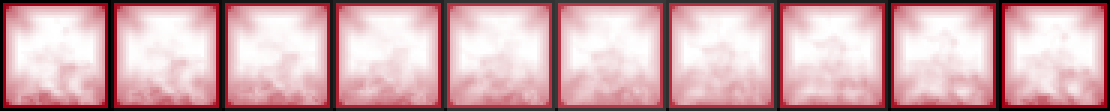
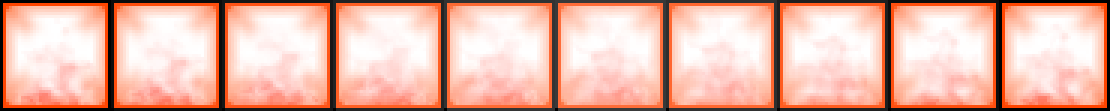
feat(forge): ô đồ cường hoá kiểu kính trong + lửa ánh kim + đốm lửa bay lên
Owner 2026-10-25 (two reference shots + 'ở giữa là hình trong veo giống kính, bên trong và xung quanh có ánh kim rực cháy, các hạt màu và hạt sáng di chuyển giống đóm lửa bay từ dưới lên trên'):

diff --git a/src/ui/forge-item-assets-runtime.js b/src/ui/forge-item-assets-runtime.js
@@ -16,9 +16,11 @@ function hvForgeCost(id, value) {
   return `<span class="forge-cost"><img class="forge-material-art" src="${hvForgeMaterial(id)}" alt="${label}">${value}</span>`;
 }
 
-function hvForgeItemVisual(item, className = 'forge-item-art') {
+function hvForgeItemVisual(item, className = 'forge-item-art', tier = '') {
   const alt = typeof itemName === 'function' ? itemName(item) : 'Trang bị';
-  return `<img class="${className}" src="${hvForgeAsset(item)}" alt="${esc(alt)}" loading="lazy">`;
+  const glow = tier || (typeof enhGlowTier === 'function' ? enhGlowTier(item && item.lvl) : '');
+  const cls = 'hv-item-slot' + (glow ? ' hv-glow-' + glow : '');
+  return `<span class="${cls}"${glow ? ` data-glow="${glow}"` : ''}><img class="${className}" src="${hvForgeAsset(item)}" alt="${esc(alt)}" loading="lazy"></span>`;
 }
 
 function hvForgeReveal(item, kind = 'craft') {
@@ -53,6 +55,137 @@ chooseDualForge = function chooseDualForgeWithReveal(index, commandId, pendingId
 // 17-20 yellow) onto our +0..+15 ceiling: +9..+11 tím, +12..+13 vàng kim, +14..+15 đỏ rực.
 function enhGlowTier(lvl){ const n=Number(lvl)||0; return n>=14?'red':n>=12?'gold':n>=9?'purple':''; }
 
+// Owner 2026-10-25: enhanced item cells - clear glass in the middle, a metallic tier-coloured fire burning inside and
+// around the rim, coloured motes and bright embers rising like sparks. One shared rAF for every glowing cell on screen.
+const HV_ENH_FX = (() => {
+  const PAL = {
+    purple: { rim: [178, 96, 255], hot: [246, 214, 255], mote: [205, 140, 255], rate: 46 },
+    gold:   { rim: [255, 196, 40], hot: [255, 248, 196], mote: [255, 224, 110], rate: 56 },
+    red:    { rim: [255, 84, 22],  hot: [255, 222, 120], mote: [255, 146, 52],  rate: 72 },
+  };
+  const PAD_X = 16, PAD_TOP = 22, PAD_BOTTOM = 12;
+  const cells = new Set();
+  let raf = 0, last = 0;
+  const rgba = (c, a) => `rgba(${c[0]},${c[1]},${c[2]},${a})`;
+
+  function attach(root) {
+    if (!root) return;
+    if (typeof matchMedia === 'function' && matchMedia('(prefers-reduced-motion: reduce)').matches) return;
+    root.querySelectorAll('.hv-item-slot[data-glow]').forEach(el => {
+      if (el.__hvFx) return;
+      const tier = el.dataset.glow;
+      if (!PAL[tier]) return;
+      const c = document.createElement('canvas');
+      c.className = 'hv-fx';
+      el.appendChild(c);
+      el.__hvFx = { c, tier, parts: [], acc: 0, seed: Math.random() * 1000 };
+      cells.add(el);
+    });
+    if (cells.size && !raf) { last = 0; raf = requestAnimationFrame(loop); }
+  }
+
+  function loop(ts) {
+    raf = 0;
+    const dt = last ? Math.min(0.05, (ts - last) / 1000) : 0.016;
+    last = ts;
+    const vh = innerHeight;
+    for (const el of cells) {
+      if (!el.isConnected) { cells.delete(el); continue; }
+      const r = el.getBoundingClientRect();
+      if (r.bottom < -40 || r.top > vh + 40) continue;        // off screen: keep state, skip drawing
+      draw(el, ts / 1000, dt);
+    }
+    if (cells.size) raf = requestAnimationFrame(loop);
+  }
+
+  function draw(el, t, dt) {
+    const fx = el.__hvFx, pal = PAL[fx.tier];
+    const w = el.offsetWidth, h = el.offsetHeight;
+    const W = w + PAD_X * 2, H = h + PAD_TOP + PAD_BOTTOM;
+    // (not the campaign scene's exact dpr line: a build step anchors on that text being unique)
+    const dpr = Math.min(2, (window.devicePixelRatio) || 1);
+    const c = fx.c;
+    if (c.width !== Math.round(W * dpr) || c.height !== Math.round(H * dpr)) {
+      c.width = Math.round(W * dpr); c.height = Math.round(H * dpr);
+      c.style.width = W + 'px'; c.style.height = H + 'px';
+    }
+    const g = c.getContext('2d');
+    g.setTransform(dpr, 0, 0, dpr, 0, 0);
+    g.clearRect(0, 0, W, H);
+    g.globalCompositeOperation = 'lighter';
+    const x0 = PAD_X, y0 = PAD_TOP, x1 = PAD_X + w, y1 = PAD_TOP + h;
+
+    // 1) metallic fire burning along the INSIDE of the rim: flickering soft bands on all four edges,
+    //    stronger along the bottom where the flames start.
+    const flick = s => 0.55 + 0.45 * Math.sin(t * 7.3 + s) * Math.sin(t * 3.1 + s * 1.7);
+    const edge = (gx0, gy0, gx1, gy1, a) => {
+      const gr = g.createLinearGradient(gx0, gy0, gx1, gy1);
+      gr.addColorStop(0, rgba(pal.hot, a));
+      gr.addColorStop(0.35, rgba(pal.rim, a * 0.7));
+      gr.addColorStop(1, rgba(pal.rim, 0));
+      return gr;
+    };
+    const band = Math.max(8, w * 0.2);
+    g.fillStyle = edge(0, y1, 0, y1 - band * 1.5, 0.55 * flick(fx.seed)); g.fillRect(x0, y1 - band * 1.5, w, band * 1.5);
+    g.fillStyle = edge(x0, 0, x0 + band, 0, 0.32 * flick(fx.seed + 2)); g.fillRect(x0, y0, band, h);
+    g.fillStyle = edge(x1, 0, x1 - band, 0, 0.32 * flick(fx.seed + 4)); g.fillRect(x1 - band, y0, band, h);
+    g.fillStyle = edge(0, y0, 0, y0 + band, 0.22 * flick(fx.seed + 6)); g.fillRect(x0, y0, w, band);
+
+    // 2) flame tongues licking up from the bottom rim (outside + inside)
+    const tongues = 5;
+    for (let i = 0; i < tongues; i++) {
+      const fxp = x0 + (i + 0.5) * (w / tongues) + Math.sin(t * 2.3 + i * 1.9 + fx.seed) * 3;
+      const fh = h * (0.22 + 0.16 * (0.5 + 0.5 * Math.sin(t * 5.1 + i * 2.7 + fx.seed)));
+      const rg = g.createRadialGradient(fxp, y1, 0, fxp, y1, fh);
+      rg.addColorStop(0, rgba(pal.hot, 0.55));
+      rg.addColorStop(0.4, rgba(pal.rim, 0.32));
+      rg.addColorStop(1, rgba(pal.rim, 0));
+      g.fillStyle = rg;
+      g.beginPath(); g.ellipse(fxp, y1, w / tongues * 0.75, fh, 0, Math.PI, 0); g.fill();
+    }
+
+    // 3) shimmering metallic rim line
+    g.lineWidth = 1.5;
+    g.strokeStyle = rgba(pal.hot, 0.35 + 0.3 * flick(fx.seed + 9));
+    g.strokeRect(x0 + 1, y0 + 1, w - 2, h - 2);
+
+    // 4) particles: coloured motes + bright embers, born near the bottom / rim, drifting up and swaying
+    fx.acc += pal.rate * dt;
+    while (fx.acc >= 1) {
+      fx.acc -= 1;
+      const ember = Math.random() < 0.38;
+      const side = Math.random();
+      const px = side < 0.7 ? x0 + Math.random() * w : (side < 0.85 ? x0 + Math.random() * 6 : x1 - Math.random() * 6);
+      const py = side < 0.7 ? y1 - Math.random() * h * 0.35 : y0 + h * (0.3 + Math.random() * 0.7);
+      fx.parts.push({ x: px, y: py, vx: (Math.random() - 0.5) * 8, vy: -(18 + Math.random() * 30) * (ember ? 1.35 : 1),
+        life: 0, max: 0.9 + Math.random() * 0.9, r: ember ? 0.9 + Math.random() * 1.1 : 1.4 + Math.random() * 1.8, ember, ph: Math.random() * 6 });
+    }
+    const keep = [];
+    for (const q of fx.parts) {
+      q.life += dt;
+      if (q.life >= q.max) continue;
+      q.x += (q.vx + Math.sin(t * 4 + q.ph) * 6) * dt;
+      q.y += q.vy * dt;
+      if (q.y < 0) continue;
+      const k = q.life / q.max, a = (k < 0.15 ? k / 0.15 : 1 - (k - 0.15) / 0.85) * (q.ember ? 1 : 0.75);
+      const col = q.ember ? pal.hot : pal.mote;
+      const rad = q.r * (q.ember ? 3.2 : 2.6);
+      const rg = g.createRadialGradient(q.x, q.y, 0, q.x, q.y, rad);
+      rg.addColorStop(0, rgba(col, a));
+      rg.addColorStop(0.45, rgba(q.ember ? pal.mote : pal.rim, a * 0.55));
+      rg.addColorStop(1, rgba(pal.rim, 0));
+      g.fillStyle = rg;
+      g.beginPath(); g.arc(q.x, q.y, rad, 0, Math.PI * 2); g.fill();
+      keep.push(q);
+    }
+    fx.parts = keep.length > 120 ? keep.slice(-120) : keep;
+    g.globalCompositeOperation = 'source-over';
+  }
+
+  return { attach };
+})();
+window.HV_ENH_FX = HV_ENH_FX;
+
 const hvEnhanceItemWithReveal = enhanceItem;
 enhanceItem = function enhanceItemWithReveal(uid, commandId) {
   const ok = hvEnhanceItemWithReveal(uid, commandId);
@@ -66,10 +199,11 @@ function renderForge(){ const b=document.getElementById('forgeBody');
   const reveal=ST.forgeRevealItem; const revealBar=reveal?`<div class="econ-panel full forge-item-reveal" data-forge-reveal="${reveal.uid}">${hvForgeItemVisual(reveal,'forge-reveal-art')}<div class="forge-reveal-copy"><strong>Đã ghi sổ sau khi lưu</strong><h3>${itemName(reveal)} <small>· ${reveal.rar.toUpperCase()}</small></h3><p>${DATA.items.slotName[reveal.slot]} · ${itemStat(reveal)} ${DATA.items.statName[reveal.slot]} · ${FORGE_MOLDS[reveal.mold]?.name||'Khuôn đã chọn'}</p></div><button class="btn ghost sm forge-reveal-dismiss" id="forgeRevealDismiss">Tiếp tục</button></div>`:'';
   const pending=econ().forgePending; const pendingBar=pending?`<div class="econ-panel full forge-pending"><h3>🔥 Song Rèn · chọn 1, bỏ 1</h3><div class="econ-muted">Hai phôi đã tiêu thụ nguyên liệu. Chọn món phù hợp build; lựa chọn còn lại bị tôi hỏng.</div><div class="forge-candidates">${pending.candidates.map((it,i)=>`<button class="btn forge-candidate dualpick" data-i="${i}" data-forge-item="${it.slot}-${it.rar}">${hvForgeItemVisual(it,'forge-item-art')}<b style="color:${rarCol(it.rar)}">${it.rar.toUpperCase()} · ${itemName(it)}</b><small>+${itemStat(it)} ${DATA.items.statName[it.slot]} · ${FORGE_MOLDS[it.mold].name}</small></button>`).join('')}</div></div>`:'';
   // Owner 2026-10-25: Kiếm Thế enhancement glow - +9..+11 tím, +12..+13 vàng kim, +14..+15 đỏ rực.
-  const cards=inv.map(it=>{const eb=equippedBy(it.uid),m=FORGE_MOLDS[it.mold]||FORGE_MOLDS.strike,glow=(typeof enhGlowTier==='function'?enhGlowTier(it.lvl):''),cls='econ-item t-'+it.rar+(glow?' glow glow-'+glow:'');return `<div class="${cls}" data-forge-item="${it.slot}-${it.rar}"><div class="forge-card-head">${hvForgeItemVisual(it)}<div class="forge-card-copy"><div class="nm"><span class="rar" style="background:${rarCol(it.rar)}">${it.rar.toUpperCase()}</span>${itemName(it)}</div><div class="meta">${DATA.items.slotName[it.slot]} · +${it.lvl} · +${itemStat(it)} ${DATA.items.statName[it.slot]}</div><div class="meta">${m.icon} ${m.name} · ${eb?('Đang mặc: '+DATA.heroes[eb].name):'Trong kho'}</div></div></div><div class="econ-actions"><button class="btn sm enh" data-u="${it.uid}" ${it.lvl>=15?'disabled':''}>${it.lvl>=15?'+15 MAX':('Cường hoá · '+hvForgeCost('gold',enhCost(it).gold)+' + '+hvForgeCost('hoat',enhCost(it).hoat))}</button><button class="btn ghost sm eqp" data-u="${it.uid}">Trang bị</button>${eb?`<button class="btn ghost sm uneqp" data-u="${it.uid}" data-h="${eb}">Tháo</button>`:""}<button class="btn ghost sm itemlock" data-u="${it.uid}" data-locked="${isForgeItemLocked(it)}">${isForgeItemLocked(it)?"Mở khóa":"Khóa đồ"}</button><button class="btn ghost sm salv" data-u="${it.uid}" ${eb||isForgeItemLocked(it)?'disabled':''}>Phân giải</button></div></div>`;}).join('');
+  const cards=inv.map(it=>{const eb=equippedBy(it.uid),m=FORGE_MOLDS[it.mold]||FORGE_MOLDS.strike,cls='econ-item t-'+it.rar;return `<div class="${cls}" data-forge-item="${it.slot}-${it.rar}"><div class="forge-card-head">${hvForgeItemVisual(it)}<div class="forge-card-copy"><div class="nm"><span class="rar" style="background:${rarCol(it.rar)}">${it.rar.toUpperCase()}</span>${itemName(it)}</div><div class="meta">${DATA.items.slotName[it.slot]} · +${it.lvl} · +${itemStat(it)} ${DATA.items.statName[it.slot]}</div><div class="meta">${m.icon} ${m.name} · ${eb?('Đang mặc: '+DATA.heroes[eb].name):'Trong kho'}</div></div></div><div class="econ-actions"><button class="btn sm enh" data-u="${it.uid}" ${it.lvl>=15?'disabled':''}>${it.lvl>=15?'+15 MAX':('Cường hoá · '+hvForgeCost('gold',enhCost(it).gold)+' + '+hvForgeCost('hoat',enhCost(it).hoat))}</button><button class="btn ghost sm eqp" data-u="${it.uid}">Trang bị</button>${eb?`<button class="btn ghost sm uneqp" data-u="${it.uid}" data-h="${eb}">Tháo</button>`:""}<button class="btn ghost sm itemlock" data-u="${it.uid}" data-locked="${isForgeItemLocked(it)}">${isForgeItemLocked(it)?"Mở khóa":"Khóa đồ"}</button><button class="btn ghost sm salv" data-u="${it.uid}" ${eb||isForgeItemLocked(it)?'disabled':''}>Phân giải</button></div></div>`;}).join('');
   const molds=Object.entries(FORGE_MOLDS).map(([id,m])=>`<button class="btn sm moldbtn ${econ().forgeMold===id?'gold':'ghost'}" data-m="${id}"><b>${m.icon} ${m.name}</b><br><small>${m.desc}</small></button>`).join('');
   b.innerHTML=`<div class="econ-stage"><div class="econ-hero"><img class="econ-hero-icon" src="assets/meta/economy/icon-forge.png" alt=""><div><div class="econ-eyebrow">Xưởng Mộng · v2.72 Rèn Khuôn</div><div class="econ-title">Rèn Mộng</div><div class="econ-copy">Chọn Khuôn để định hướng bộ trang bị, hoặc dùng Song Rèn đổi thêm nguyên liệu lấy quyền chọn giữa hai phôi. Khuôn tạo lối build ngang, không mở cấp vô hạn.</div><div class="econ-chips">${hvForgeMaterialChip('tinh',P.tinh||0)}${hvForgeMaterialChip('hoat',P.hoat||0)}${hvForgeMaterialChip('gold',P.gold)}<span class="econ-chip">Pity ${econ().craftPity}/${ECON.craftPitySSR}</span></div></div></div><div class="econ-grid"><div class="econ-panel full"><h3>🧩 Khuôn đang dùng</h3><div class="forge-molds">${molds}</div></div><div class="econ-panel full"><h3>🔨 Chọn loại trang bị</h3><div class="forge-slotbar">${DATA.items.slots.map(s=>`<div class="forge-action"><button class="btn forge-slot craftb" data-s="${s}">${hvForgeItemVisual({slot:s,rar:'b'},'forge-slot-art')}<span><b>${DATA.items.slotName[s]}</b><br><small>Rèn thường · ${hvForgeCost('tinh',CRAFT.tinh)} + ${hvForgeCost('gold',CRAFT.gold)}</small></span></button><button class="btn ghost sm dualb" data-s="${s}" ${pending?'disabled':''}>Song Rèn · ${hvForgeCost('tinh',DUAL_FORGE.tinh)} + ${hvForgeCost('gold',DUAL_FORGE.gold)}</button></div>`).join('')}</div></div>${revealBar}${pendingBar}${pickBar}<div class="econ-panel full"><h3>🎒 Kho trang bị · ${inv.length} món</h3>${inv.length?`<div class="econ-itemgrid">${cards}</div>`:'<div class="econ-muted">Chưa có món nào — chọn Khuôn rồi rèn để bắt đầu xây bộ.</div>'}</div></div></div>`;
   const forgeHero=b.querySelector('.econ-hero-icon'); if(forgeHero)forgeHero.src='assets/ui/menu-v3233/icons/forge.png';
   const dismiss=document.getElementById('forgeRevealDismiss'); if(dismiss)dismiss.addEventListener('click',()=>{ST.forgeRevealItem=null;ST.forgeRevealAudioUid=null;renderForge();});
   bindForgeCommands(b);
+  try { HV_ENH_FX.attach(b); } catch (_) {}
 }

diff --git a/index.html b/index.html
@@ -547,20 +547,18 @@ body.hub-art-active .mainstage{height:100dvh;min-height:620px;border:0;border-ra
 .econ-actions .btn{min-height:44px;border-radius:12px}.econ-progress{height:8px;border-radius:99px;background:#161824;border:1px solid #292d40;overflow:hidden;margin:8px 0}.econ-progress>i{display:block;height:100%;background:linear-gradient(90deg,#a969ff,#f2b544);box-shadow:0 0 14px rgba(242,181,68,.5)}
 .sumgrid{grid-template-columns:repeat(auto-fill,minmax(150px,1fr));gap:10px}.scard{min-height:116px;background:linear-gradient(145deg,rgba(17,20,34,.98),rgba(31,21,35,.96));border-radius:16px;padding:13px;box-shadow:inset 0 0 26px rgba(255,255,255,.02),0 10px 24px rgba(0,0,0,.28)}
 .forge-slotbar{display:grid;grid-template-columns:repeat(4,1fr);gap:8px}.forge-slot{display:flex;align-items:center;gap:8px;text-align:left;min-height:62px}.forge-slot img{width:38px;height:38px;border-radius:10px;object-fit:cover}
-/* Kiếm Thế enhancement glow (owner 2026-10-25): the original 10-frame glow art, colour by tier. */
-.econ-item.glow{overflow:visible}
-.econ-item.glow::before{content:'';position:absolute;inset:-12px;pointer-events:none;z-index:0;border-radius:24px;
-  background-repeat:no-repeat;background-size:1000% 100%;background-position:0 50%;opacity:1;
-  mix-blend-mode:screen;filter:saturate(1.55) brightness(1.5) contrast(1.15);
-  animation:hvGlowStep 1.1s steps(10) infinite}
-@keyframes hvGlowStep{from{background-position:0 50%}to{background-position:-100% 50%}}
-.econ-item.glow-purple::before{background-image:url('assets/ui/enhance-glow/purple.png')}
-.econ-item.glow-gold::before{background-image:url('assets/ui/enhance-glow/gold.png')}
-.econ-item.glow-red::before{background-image:url('assets/ui/enhance-glow/red.png');opacity:.95;filter:saturate(1.3) brightness(1.1)}
-.econ-item.glow-purple{box-shadow:0 0 18px 2px rgba(150,60,255,.45),inset 0 0 22px rgba(140,60,255,.22);border-color:rgba(170,90,255,.75)}
-.econ-item.glow-gold{box-shadow:0 0 20px 2px rgba(255,206,60,.5),inset 0 0 22px rgba(255,200,60,.22);border-color:rgba(255,214,90,.8)}
-.econ-item.glow-red{box-shadow:0 0 22px 3px rgba(255,60,40,.55),inset 0 0 24px rgba(255,70,40,.26);border-color:rgba(255,90,60,.85)}
-@media (prefers-reduced-motion: reduce){.econ-item.glow::before{animation:none;background-position:-450% 50%}}
+/* Kiếm Thế enhancement glow (owner 2026-10-25): the cell is clear glass so the item reads perfectly; inside and
+   around its rim a metallic tier-coloured fire burns, with coloured motes and bright embers drifting upward.
+   Drawn by HV_ENH_FX (canvas, src/ui/forge-item-assets-runtime.js). +9..+11 tím, +12..+13 vàng kim, +14..+15 đỏ. */
+.hv-item-slot{position:relative;display:inline-flex;flex:0 0 auto}
+.hv-item-slot[class*='hv-glow-'] .forge-item-art{position:relative;z-index:1;border-radius:7px;border:2px solid;
+  background:linear-gradient(180deg,rgba(255,255,255,.34) 0%,rgba(255,255,255,.06) 38%,rgba(255,255,255,0) 52%),
+             radial-gradient(circle at 50% 58%,rgba(18,14,30,.08) 0%,rgba(18,14,30,.42) 100%)}
+.hv-item-slot.hv-glow-purple .forge-item-art{border-color:#d4a4ff;box-shadow:0 0 10px 1px rgba(170,90,255,.8)}
+.hv-item-slot.hv-glow-gold .forge-item-art{border-color:#ffe98a;box-shadow:0 0 10px 1px rgba(255,214,60,.85)}
+.hv-item-slot.hv-glow-red .forge-item-art{border-color:#ffab55;box-shadow:0 0 12px 2px rgba(255,100,30,.9)}
+.hv-item-slot>canvas.hv-fx{position:absolute;left:-16px;top:-22px;z-index:2;pointer-events:none;mix-blend-mode:screen}
+@media (prefers-reduced-motion: reduce){.hv-item-slot>canvas.hv-fx{display:none}}
 .econ-itemgrid{display:grid;grid-template-columns:repeat(auto-fill,minmax(220px,1fr));gap:9px}.econ-item{border:1px solid #363242;border-radius:15px;background:linear-gradient(180deg,rgba(24,22,31,.96),rgba(13,14,22,.96));padding:12px;position:relative;overflow:hidden}.econ-item::after{content:"";position:absolute;right:-24px;bottom:-30px;width:90px;height:90px;background:radial-gradient(circle,rgba(242,181,68,.14),transparent 70%)}.econ-item .nm{font-weight:850;color:#f6e6bd}.econ-item .meta{font-size:11.5px;color:#b8bdd0;margin-top:4px}.econ-item .price{font-size:12px;color:#f2c14e;margin-top:8px}
 .shop-shelf{display:grid;grid-template-columns:repeat(auto-fill,minmax(210px,1fr));gap:10px}.shop-card{min-height:170px;border:1px solid rgba(213,171,81,.35);border-radius:17px;background:linear-gradient(180deg,rgba(20,20,28,.96),rgba(10,11,17,.95));padding:13px;display:flex;flex-direction:column;position:relative;overflow:hidden}.shop-card img{width:58px;height:58px;border-radius:14px;object-fit:cover;border:1px solid rgba(242,181,68,.25)}.shop-card .shop-name{font-weight:850;font-size:13px;color:#f7e8be;margin-top:9px}.shop-card .shop-what{font-size:11.5px;color:#b8bdd0;line-height:1.5;margin-top:4px}.shop-card .btn{margin-top:auto}
 @media(max-width:720px){.econ-stage{padding:8px 8px 84px}.econ-hero{grid-template-columns:86px 1fr;padding:12px;gap:11px;border-radius:16px}.econ-hero-icon{width:82px;height:82px;border-radius:18px}.econ-title{font-size:19px}.econ-copy{font-size:11.5px}.econ-panel{grid-column:1/-1;padding:11px;border-radius:15px}.forge-slotbar{grid-template-columns:repeat(2,1fr)}.shop-shelf{grid-template-columns:repeat(2,minmax(0,1fr))}.shop-card{min-height:165px;padding:10px}.sumgrid{grid-template-columns:repeat(2,minmax(0,1fr))}}
